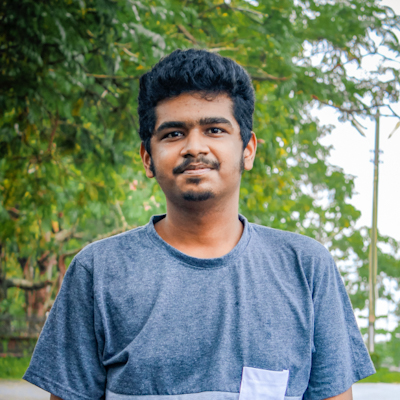
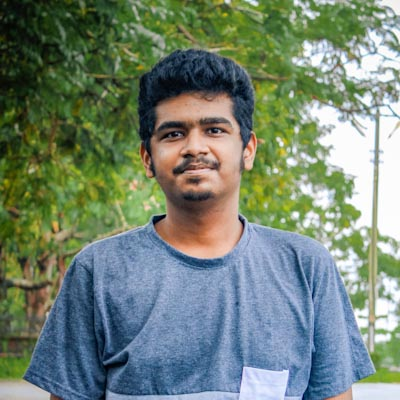
decresed pic size

diff --git a/tic-tac-toe.html b/tic-tac-toe.html
@@ -4,10 +4,10 @@
   <meta charset="UTF-8">
   <meta name="viewport" content="width=device-width, initial-scale=1.0">
   <meta http-equiv="X-UA-Compatible" content="ie=edge">
-  <link rel="shortcut icon" href="img/logo-tic-tac-toe.png">
+  <link rel="shortcut icon" href="img/logo-tic-tac-toe.jpg">
   <link rel="stylesheet" href="css/tic-tac-toe.css">
   <script src="js/tic-tac-toe.js" defer></script>
-  <title>Document</title>
+  <title>Tic Tac Toe </title>
 </head>
 <body>
   <div class="board" id="board">
